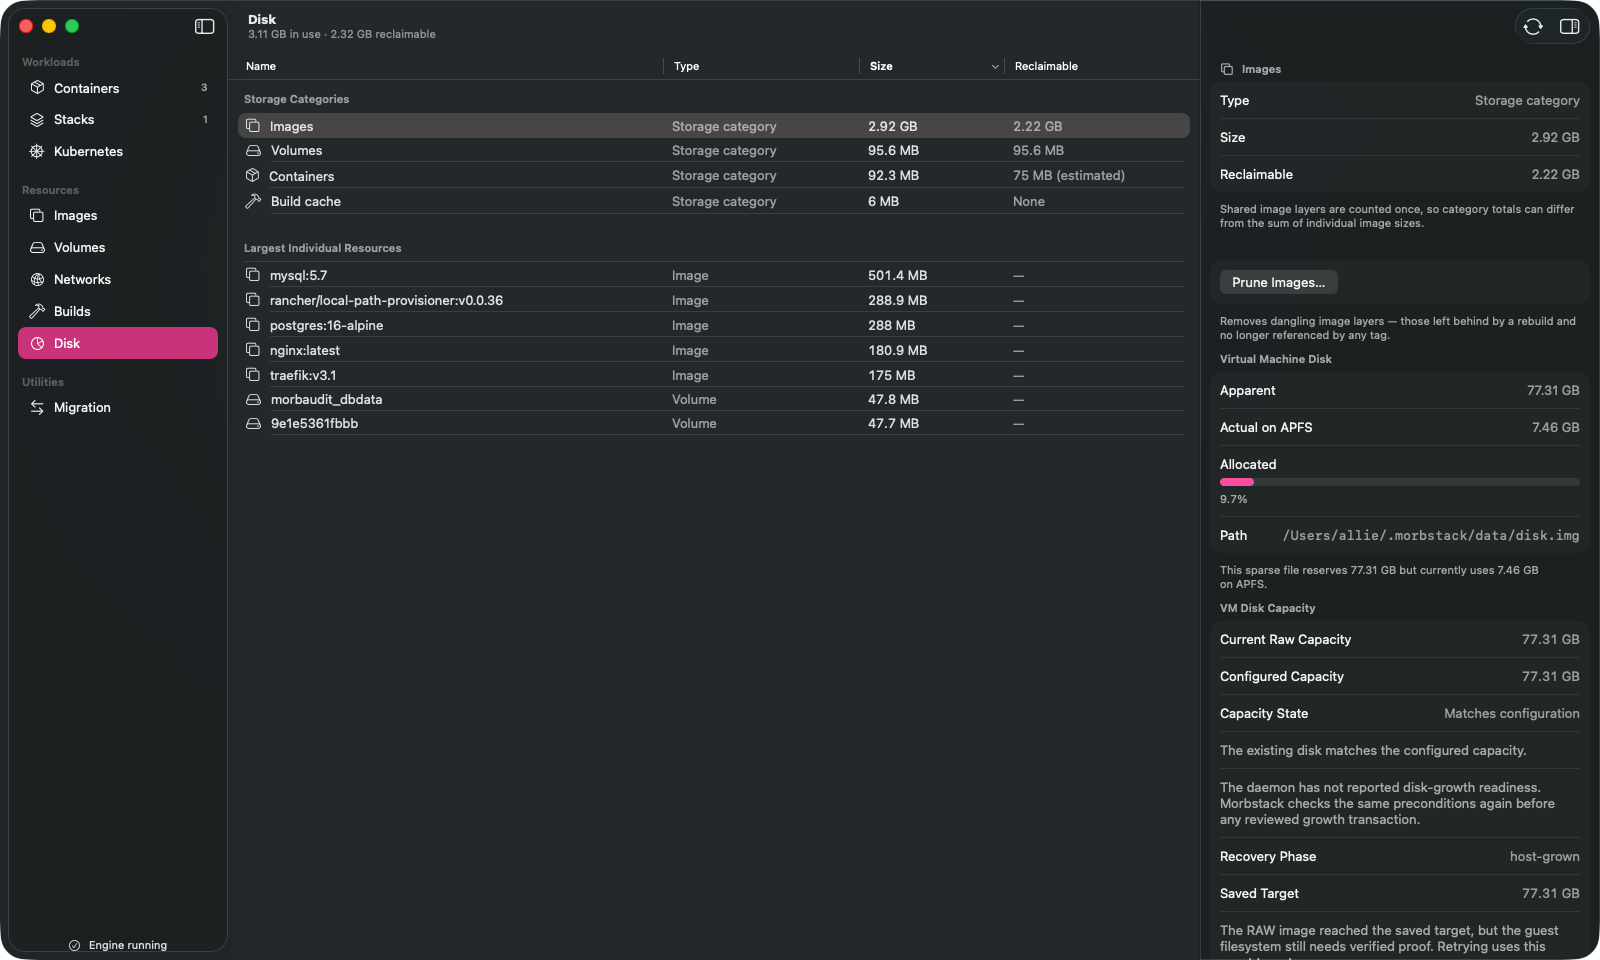
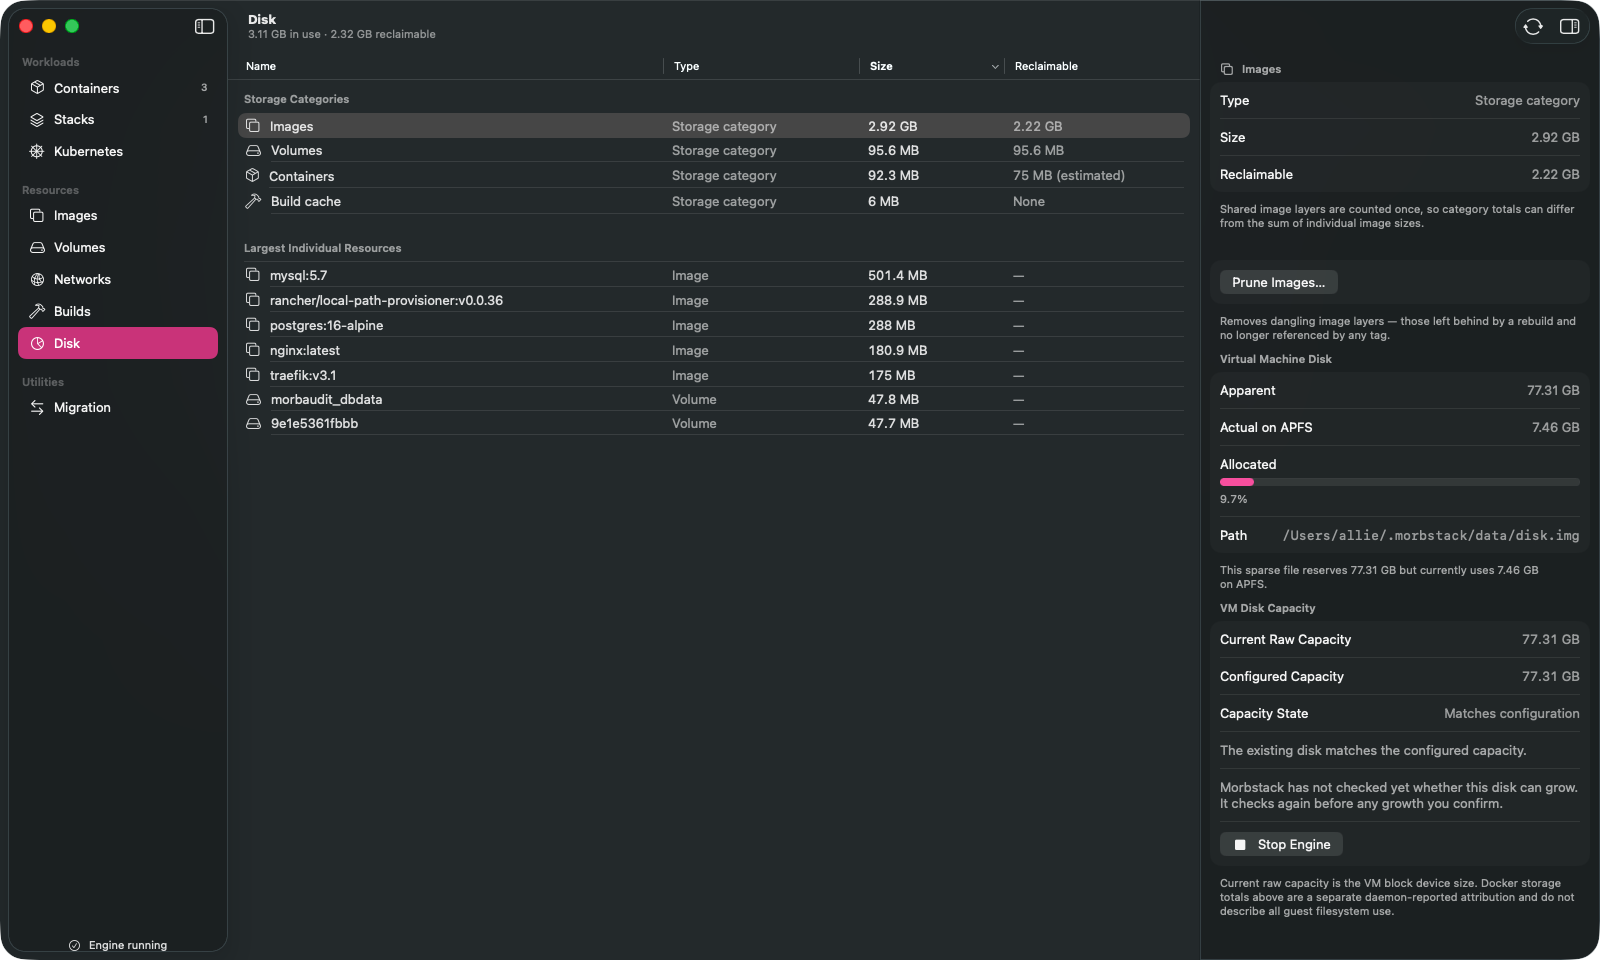
TASTE-6: the Disk inspector stops describing its own state machine
It led with "Transaction Readiness", "Recovery Phase — host-grown",
"Guest Resize — Unknown" and a sentence promising to check preconditions
"before any reviewed growth transaction". Every one of those is our
implementation's vocabulary. Someone reading this pane wants to know one
thing: can I make the disk bigger.

Now one plain sentence answers exactly that, and every "no" names the thing
the reader can do about it:

  ready          → "This disk can grow. Growth is never automatic — you
                    confirm the new size, and it is never made smaller."
  vmMustStop     → "Stop the engine to grow the disk. Resizing a disk the
                    VM is running from is not safe."
  guestUnavail.  → "This guest image cannot resize its own filesystem, so
                    growing the disk would add space nothing can use."
  recovery       → "A previous growth was interrupted. Morbstack will
                    finish or roll it back before starting another."

The machinery is not deleted -- readiness, guest capability, the journal's
interrupted phase and saved target all still show, behind a "Growth
Details" disclosure for whoever is debugging it. `diskResizeStateTitle`
still says "Stop VM first", which is the right label for a two-word status
field and the wrong thing to lead with. This is rearrangement, not removal,
which is what the taste review said all nine of its tickets would be.

Also renamed two fields inside the disclosure: "Recovery Phase" → "Interrupted
[…]

Changed region(s): [[0.75, 0.8125, 1.0, 1.0]]

diff --git a/mac/Sources/MorbstackAppCore/Views/Disk/DiskRootView.swift b/mac/Sources/MorbstackAppCore/Views/Disk/DiskRootView.swift
@@ -761,27 +761,47 @@ struct DiskRootView: View {
                         .textSelection(.enabled)
                 }
 
+                // The state machine behind disk growth is real and worth keeping — a
+                // journal, a readiness probe, a guest capability, recovery phases. But
+                // its vocabulary is ours, not the reader's: "Transaction Readiness",
+                // "Recovery Phase — host-grown" and "reviewed growth transaction"
+                // describe our implementation, and someone looking at this pane wants
+                // to know one thing, which is whether they can make the disk bigger.
+                //
+                // So: one plain sentence at the top, and the machinery behind a
+                // disclosure for whoever is actually debugging it. Nothing is removed;
+                // it stops being the first thing you read.
                 if let diskResizeDiagnostic {
-                    LabeledContent(
-                        "Transaction Readiness",
-                        value: diskResizeStateTitle(diskResizeDiagnostic.state))
-                    LabeledContent(
-                        "Guest Resize",
-                        value: diskResizeDiagnostic.guestCapability.rawValue.capitalized)
-                    Text(diskResizeDiagnostic.summary)
+                    Text(growthReadinessSentence(diskResizeDiagnostic))
                         .foregroundStyle(.secondary)
-                } else {
-                    Text("The daemon has not reported disk-growth readiness. Morbstack checks the same preconditions again before any reviewed growth transaction.")
-                        .foregroundStyle(.secondary)
-                }
 
-                if let diskGrowthJournal {
-                    LabeledContent("Recovery Phase", value: diskGrowthJournal.phase.rawValue)
-                    LabeledContent("Saved Target") {
-                        Text(Formatters.bytesString(diskGrowthJournal.targetBytes))
-                            .monospacedDigit()
+                    DisclosureGroup("Growth Details") {
+                        LabeledContent(
+                            "Readiness",
+                            value: diskResizeStateTitle(diskResizeDiagnostic.state))
+                        LabeledContent(
+                            "Guest Resize",
+                            value: diskResizeDiagnostic.guestCapability.rawValue.capitalized)
+                        Text(diskResizeDiagnostic.summary)
+                            .foregroundStyle(.secondary)
+
+                        if let diskGrowthJournal {
+                            LabeledContent(
+                                "Interrupted At",
+                                value: diskGrowthJournal.phase.rawValue)
+                            LabeledContent("Target") {
+                                Text(Formatters.bytesString(diskGrowthJournal.targetBytes))
+                                    .monospacedDigit()
+                            }
+                            Text(
+                                TrackCDiskGrowthPresentation.journalPhaseDescription(
+                                    diskGrowthJournal.phase))
+                                .foregroundStyle(.secondary)
+                        }
                     }
-                    Text(TrackCDiskGrowthPresentation.journalPhaseDescription(diskGrowthJournal.phase))
+                    .accessibilityIdentifier("disk.growthDetails")
+                } else {
+                    Text("Morbstack has not checked yet whether this disk can grow. It checks again before any growth you confirm.")
                         .foregroundStyle(.secondary)
                 }
             } else if let diskCapacityError {
@@ -909,6 +929,33 @@ struct DiskRootView: View {
         case .increaseRequiresGuestResize: return "Growth required"
         case .decreaseUnsupported: return "Shrink unsupported"
         case .unavailable: return "Unavailable"
+        }
+    }
+
+    /// The one sentence a person reading this pane actually wants: can the disk grow,
+    /// and if not, what would change that.
+    ///
+    /// Each case answers in the reader's terms rather than the state machine's, and
+    /// every "no" names the thing they can do about it. `diskResizeStateTitle` still
+    /// exists and still says "Stop VM first" — that is the right label for a
+    /// two-word status field inside the details disclosure; it is the wrong thing to
+    /// lead with.
+    private func growthReadinessSentence(_ diagnostic: MorbDiskResize.Diagnostic) -> String {
+        switch diagnostic.state {
+        case .readyForExplicitTransaction:
+            return "This disk can grow. Growth is never automatic — you confirm the new size, and it is never made smaller."
+        case .notNeeded:
+            return "The disk already matches the size you configured, so there is nothing to grow."
+        case .decreaseUnsupported:
+            return "The configured size is smaller than the disk. Morbstack only ever grows a disk, never shrinks one, so nothing will change."
+        case .vmMustStop:
+            return "Stop the engine to grow the disk. Resizing a disk the VM is running from is not safe."
+        case .guestCapabilityUnknown, .capacityUnavailable:
+            return "Morbstack cannot tell yet whether this disk can grow. Start the engine so it can ask the guest."
+        case .guestResizeUnavailable:
+            return "This guest image cannot resize its own filesystem, so growing the disk would add space nothing can use."
+        case .recoveryRequired:
+            return "A previous growth was interrupted. Morbstack will finish or roll it back before starting another."
         }
     }
 
